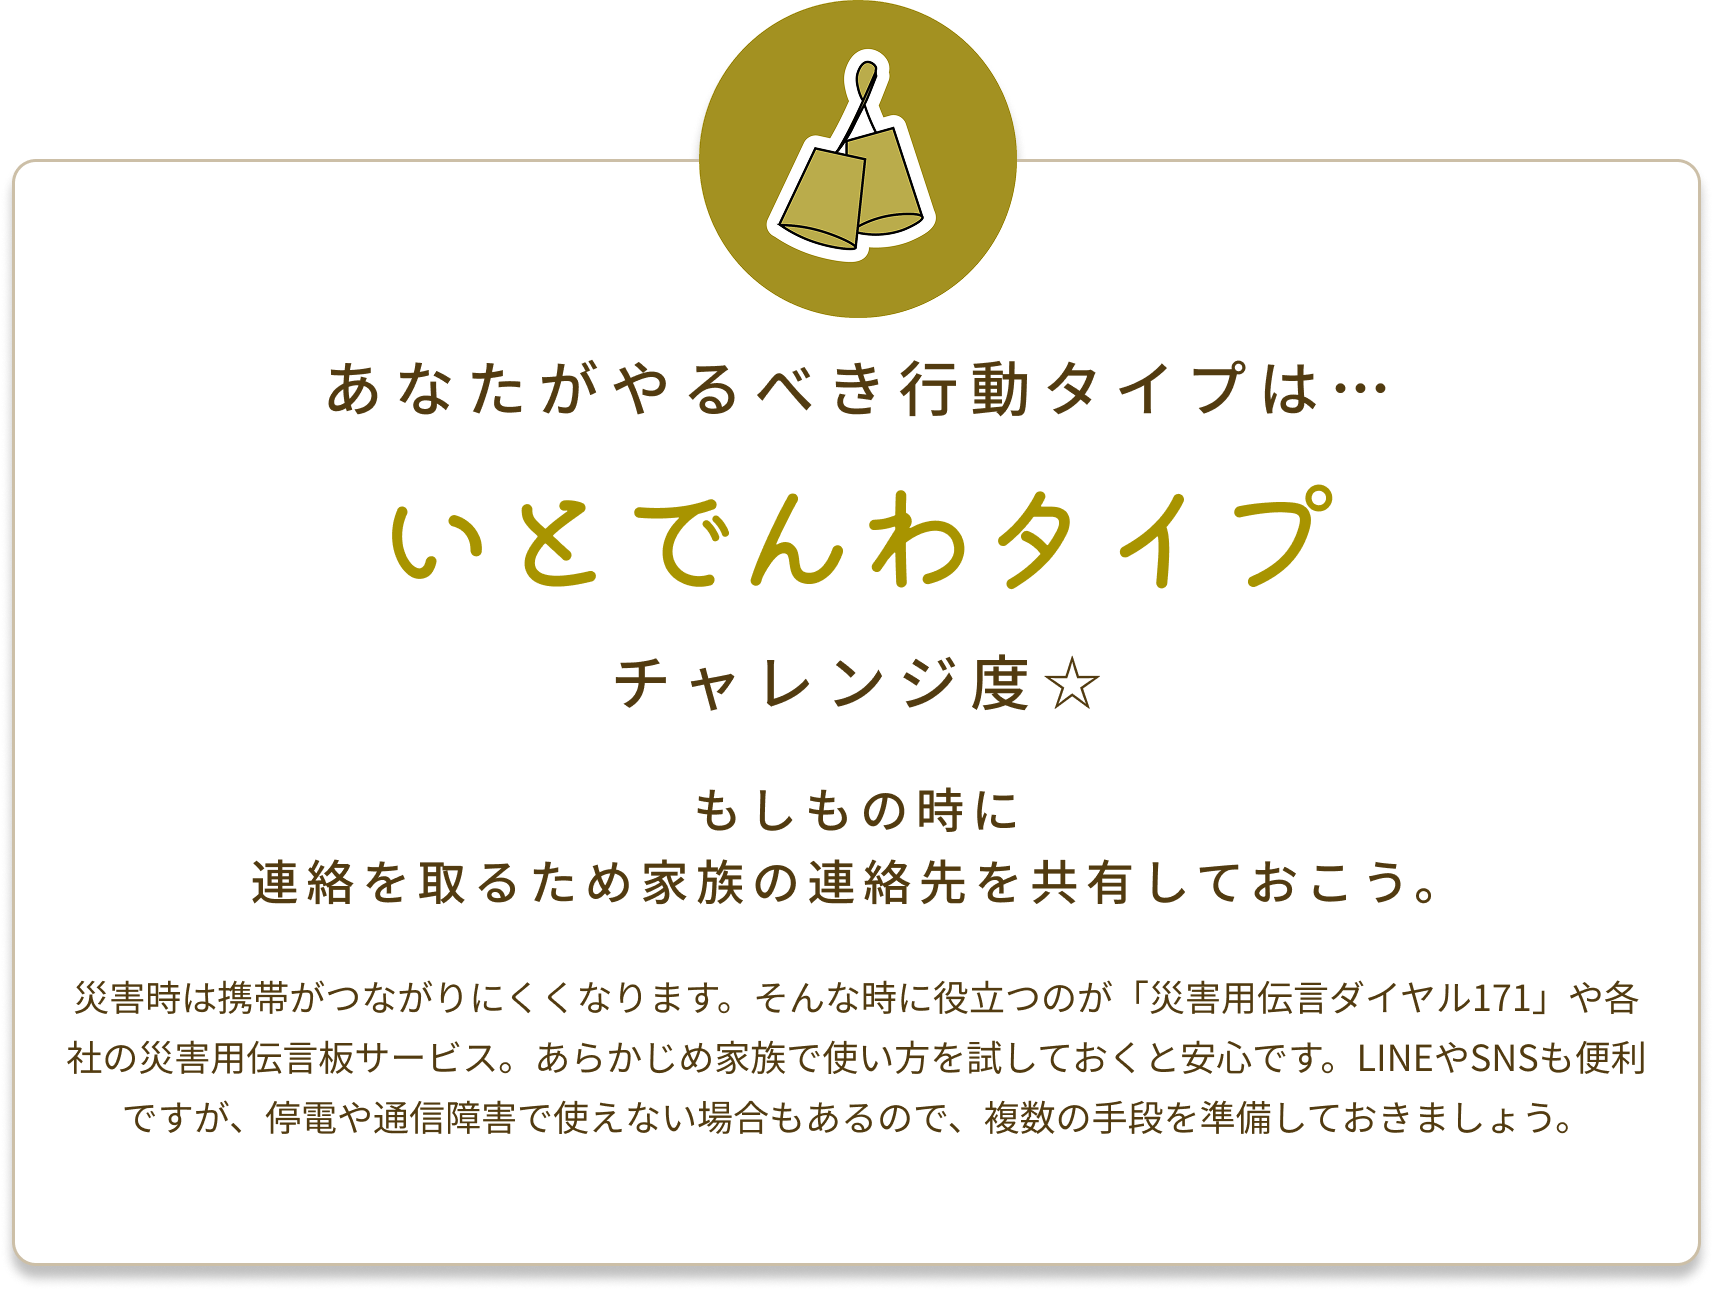
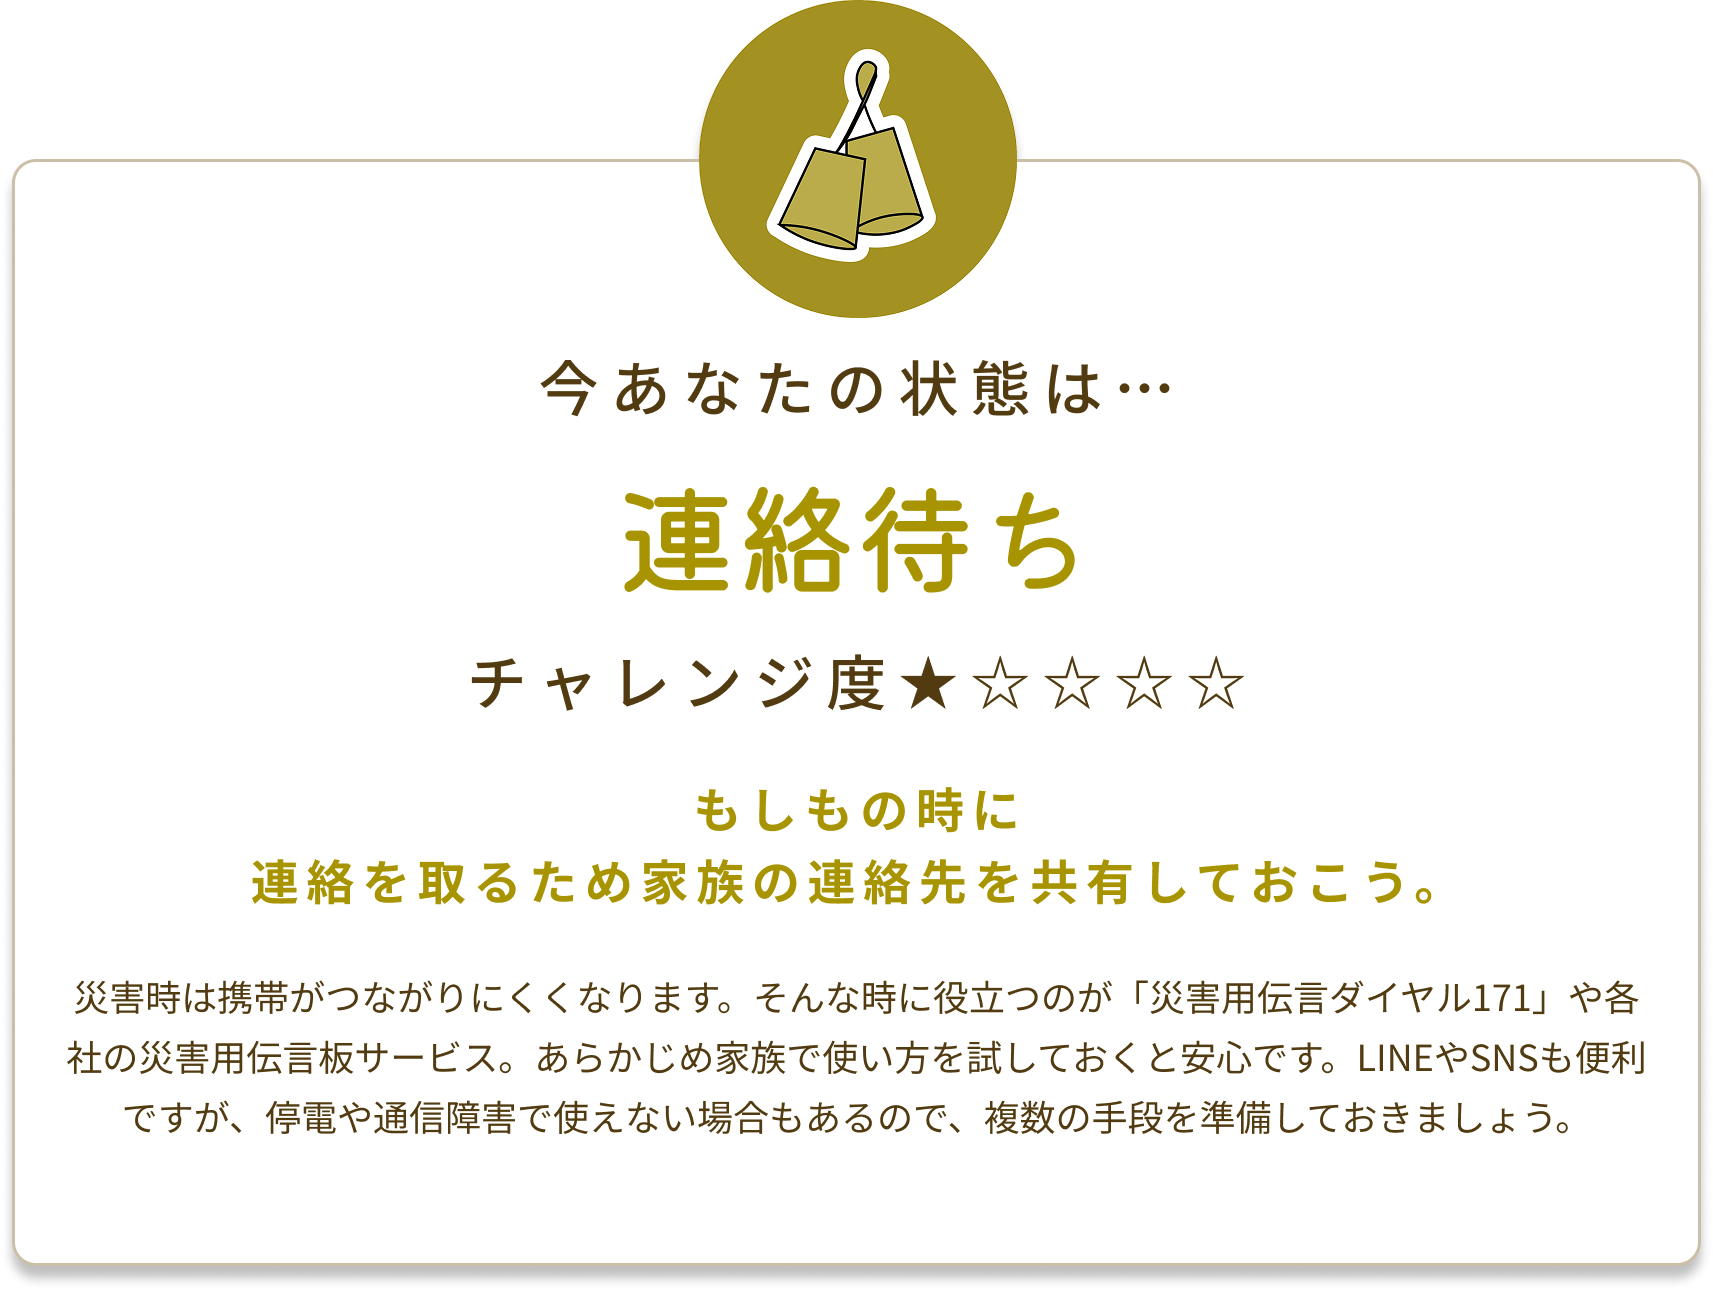
写真変更、フッター変更、行動タイプ修正

diff --git a/app/posts/result/resultContent.tsx b/app/posts/result/resultContent.tsx
@@ -1,7 +1,7 @@
 "use client";
 
-import Link from 'next/link';
-import React, { useEffect, useState, useRef} from "react";
+import Link from "next/link";
+import React, { useEffect, useState, useRef } from "react";
 import { useSearchParams } from "next/navigation";
 import Image from "next/image";
 import type { PreparednessResult } from "data/calculate"; // ここは保存先に合わせて修正
@@ -24,19 +24,20 @@ export default function Result() {
 
     // ページが表示されたらスクロール
     targetRef.current?.scrollIntoView({ behavior: "smooth" });
-
-
   }, []);
 
-    const mainParameter = searchParams.get('main') ;
-    const subParameter = searchParams.get('sub') ;
-    const result = { main: mainParameter ? mainParameter : '', sub: subParameter ? subParameter.split(',') : [] };
-    console.log("mainParameter", mainParameter);
+  const mainParameter = searchParams.get("main");
+  const subParameter = searchParams.get("sub");
+  const result = {
+    main: mainParameter ? mainParameter : "",
+    sub: subParameter ? subParameter.split(",") : [],
+  };
+  console.log("mainParameter", mainParameter);
 
   return (
     <div className="main-container">
       <header className="bg-[F9F8F1] text-center">
-        <div className="flex justify-center items-center p-10"  ref={targetRef}>
+        <div className="flex justify-center items-center p-10" ref={targetRef}>
           <Image
             src="/picture/result_head.png"
             alt="icon"
@@ -63,10 +64,12 @@ export default function Result() {
           {/* サブ画像 */}
 
           {result.sub != null && result.sub.length > 0 && (
-           
             <div className="text-center mb-6">
               <br />
-              <h2 className="text-center text-4xl p-12">他の行動タイプ</h2>
+              <h2 className="text-center text-4xl p-12">
+                あなたは他にこのような傾向があります<br />
+                これらを解決して完璧を目指そう！！
+              </h2>
               <div className="flex flex-wrap justify-center gap-4">
                 {result.sub.map((img, i) => (
                   <div key={i} className="flex justify-center">

diff --git a/data/calculate.ts b/data/calculate.ts
@@ -62,15 +62,15 @@ export function calculatePreparedness(answers: Answers): PreparednessResult {
         //sub.push(check.image);
         const subImageMap: Record<string, string> = {
           "/picture/result_picture/type1.png":
-            "/picture/result_picture/mini_type1.png",
+            "/picture/result_picture/mini-type1.png",
           "/picture/result_picture/type2.png":
-            "/picture/result_picture/mini_type2.png",
+            "/picture/result_picture/mini-type2.png",
           "/picture/result_picture/type3.png":
-            "/picture/result_picture/mini_type3.png",
+            "/picture/result_picture/mini-type3.png",
           "/picture/result_picture/type4.png":
-            "/picture/result_picture/mini_type4.png",
+            "/picture/result_picture/mini-type4.png",
           "/picture/result_picture/type5.png":
-            "/picture/result_picture/mini_type5.png",
+            "/picture/result_picture/mini-type5.png",
         };
         sub.push(subImageMap[check.image] ?? check.image);
       }

diff --git a/app/components/Footer.tsx b/app/components/Footer.tsx
@@ -6,11 +6,8 @@ import styles from './Footer.module.css'
 
 const Footer = () => {
   return (
-    <footer className='bg-[#CCBFA7] text-center py-8'>
-      <Link href="/posts/references">
-        参考文献はこちらをクリックしてください
-      </Link>
-
+    <footer className='bg-[#CCBFA7] text-center py-8 text-xl'>
+      <p>公立はこだて未来大学 すうぃふと2025防災グループ</p>
     </footer>
   );
 }
